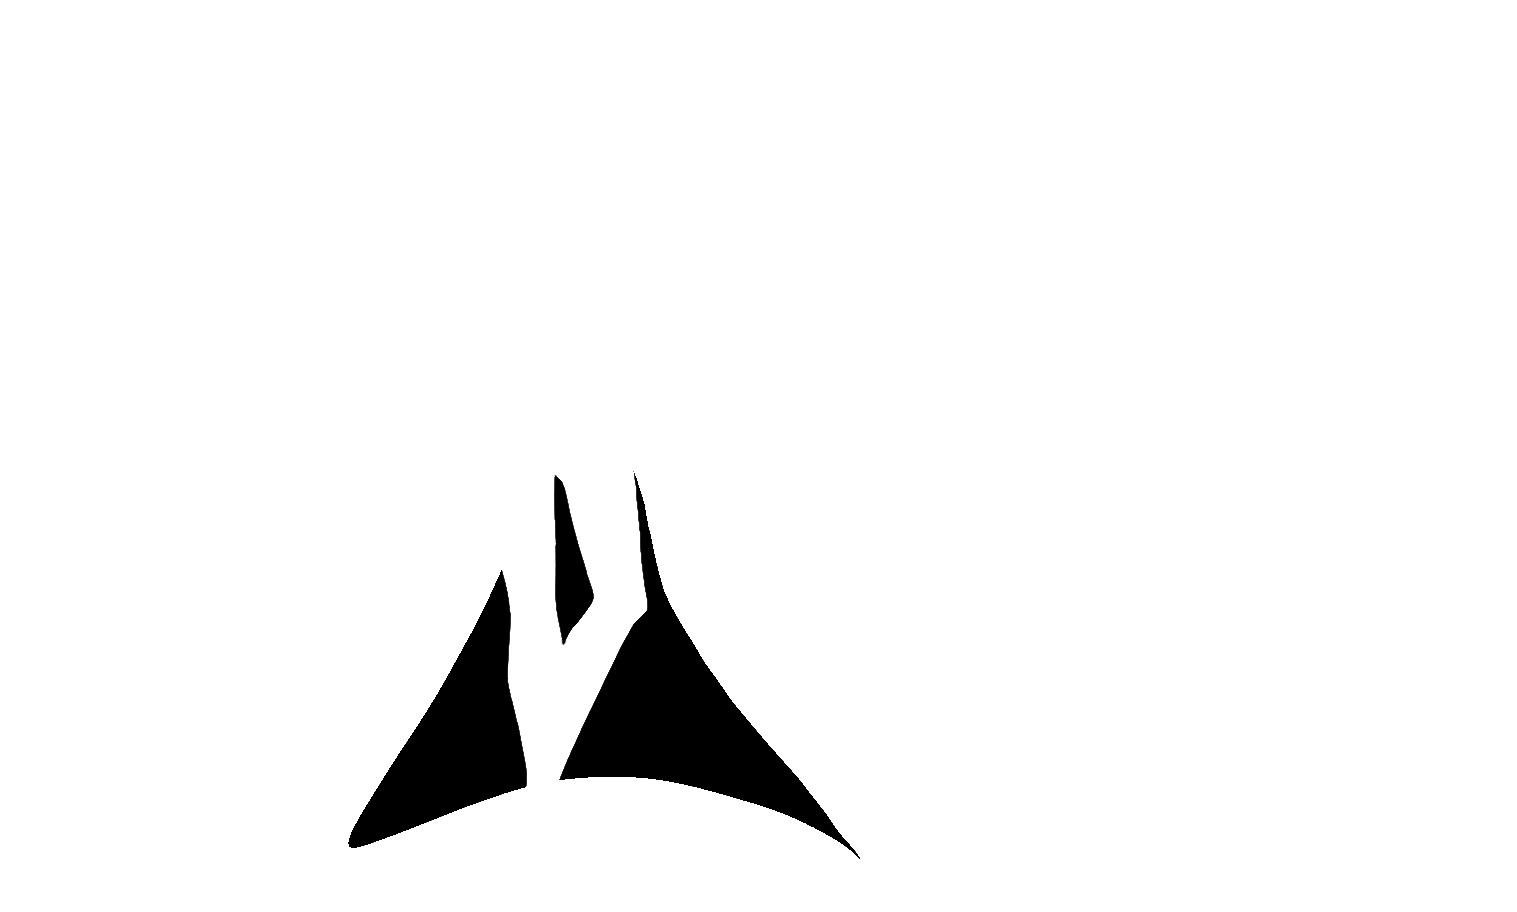
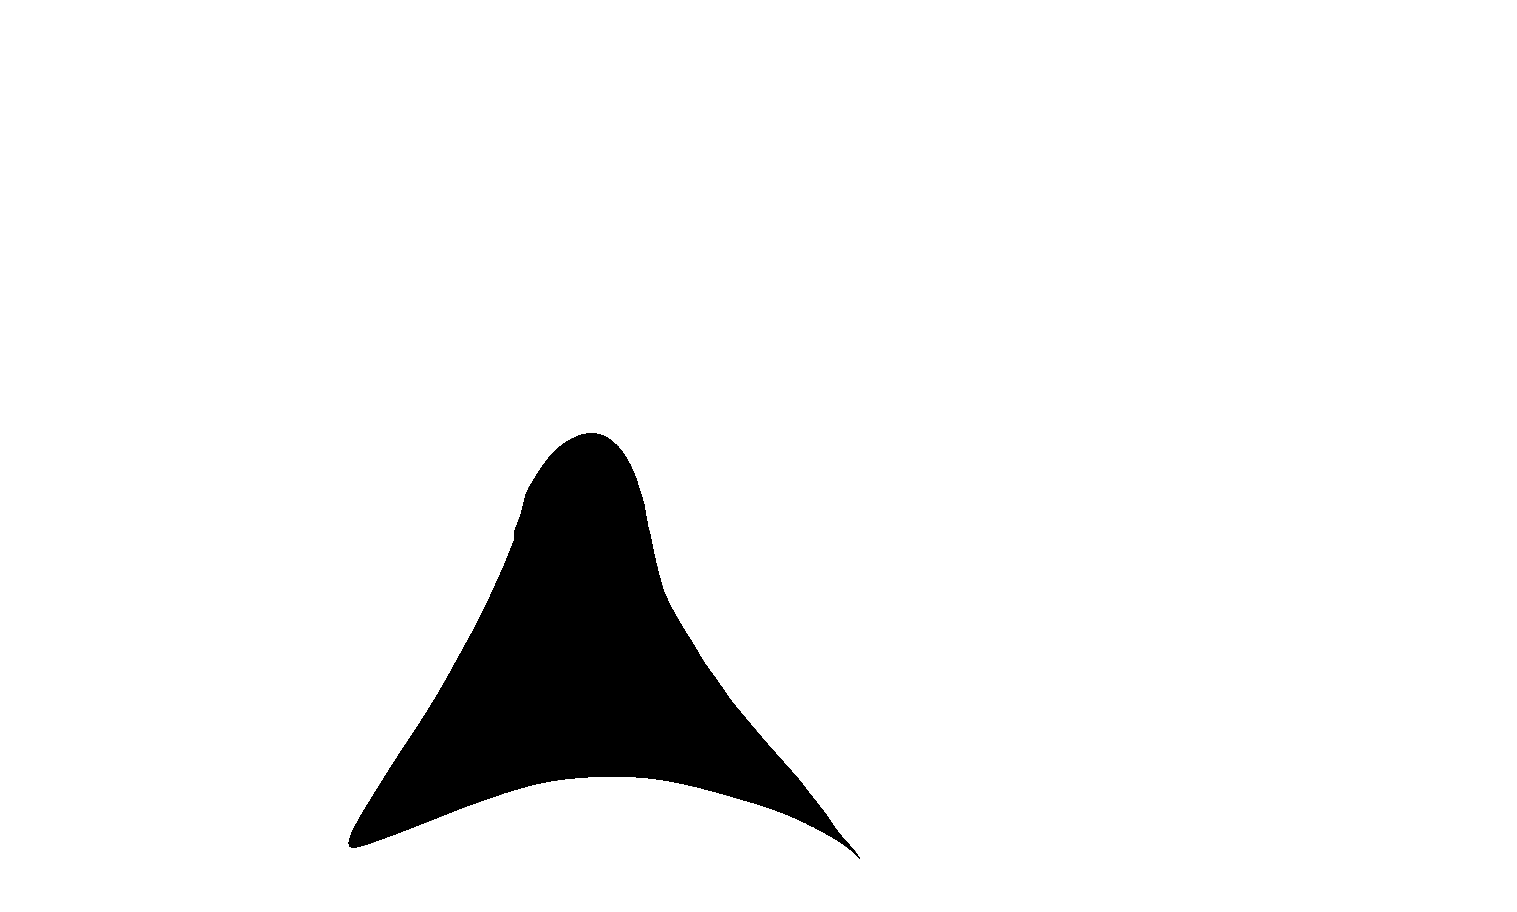
button shows both front and back img, Character Creator

Changed region(s): [[0.3098, 0.4605, 0.4338, 0.8596]]

diff --git a/src/DressUpGame/DressUpGame.tsx b/src/DressUpGame/DressUpGame.tsx
@@ -11,7 +11,7 @@ import {
     eyeUrls, fleshColor, hairBraids as hairBraidUrls, hairDown as hairDownUrls, hairEx as hairExUrls, hairUp as hairUpUrls,
     headHair as headHairUrls, lipColor, lipsUrls, noseUrls, pants, Shape, skirts, sleeves, socks, topCorset, topCorsetTies, tops
 } from './DUGColorAndImgLists';
-import { SelectedShape } from './ImgDisplay';
+import { Frame, SelectedShape } from './ImgDisplay';
 
 export interface Character {
     name: string
@@ -40,12 +40,14 @@ export interface Character {
     arms?: Shape
     armTies?: Shape
     sleeves?: Shape
+    bgSkirt?: Shape
+    eyeWhites?: Shape
 
 }
 
 type CharacterKey = keyof Character
 interface TrayRendering {
-    label: string, key: CharacterKey, itemUrls: Shape[], colors: string[], colors2?: string[]
+    label: string, key: CharacterKey, itemUrls: Shape[], colors: string[], colors2?: string[], bgKey?: CharacterKey
 }
 
 export interface DU1State {
@@ -106,17 +108,28 @@ export class DressUpGameTryingStuff extends React.Component<any, DU1State> {
     }
 
     renderSideBar(trayOptions: TrayRendering[]) {
-        return trayOptions.map(({ label, key, itemUrls, colors, colors2 }) =>
+        return trayOptions.map(({ label, key, itemUrls, colors, colors2, bgKey }) =>
             <ShapeButtonsWithColor
                 itemName={label}
                 itemUrls={itemUrls}
                 onShapeSelect={(shape: Shape) => {
                     console.log(shape);
-                    this.setState({ currentCharacter: { ...this.state.currentCharacter, [key]: shape } })
+                    let extraBgInfo = {}
+                    if ((shape.backFillUrl || shape.bgPermColorUrl) && bgKey) {
+                        extraBgInfo = {
+                            [bgKey]:
+                                {
+                                    color: shape.color,
+                                    outlineUrl: shape.bgPermColorUrl,
+                                    fillUrl: shape.backFillUrl,
+                                } as Shape
+                        }
+                    }
+                    this.setState({ currentCharacter: { ...this.state.currentCharacter, [key]: shape, ...extraBgInfo } })
                 }}
                 selectableColors={colors}
                 secondSelectableColors={colors2}
-                defaultShape={this.state.currentCharacter[key] as Shape}
+                selectedShape={this.state.currentCharacter[key] as Shape}
             />
         )
     }
@@ -145,7 +158,7 @@ export class DressUpGameTryingStuff extends React.Component<any, DU1State> {
             [
                 { label: "Character", key: "character", itemUrls: characterUrls, colors: fleshColor } as TrayRendering,
                 { label: "Brows", key: "brow", itemUrls: browUrls, colors: bigColorOption } as TrayRendering,
-                { label: "Eyes", key: "eye", itemUrls: eyeUrls, colors: bigColorOption, colors2: bigColorOption } as TrayRendering,
+                { label: "Eyes", key: "eye", bgKey: "eyeWhites", itemUrls: eyeUrls, colors: bigColorOption, colors2: bigColorOption } as TrayRendering,
                 { label: "Nose", key: "nose", itemUrls: noseUrls, colors: [] } as TrayRendering,
                 { label: "Lips", key: "lips", itemUrls: lipsUrls, colors: lipColor } as TrayRendering,
             ],
@@ -172,7 +185,7 @@ export class DressUpGameTryingStuff extends React.Component<any, DU1State> {
             { label: "Socks", key: "socks", itemUrls: socks, colors: bigColorOption } as TrayRendering,
             { label: "Belts", key: "belts", itemUrls: belts, colors: bigColorOption, colors2: bigColorOption } as TrayRendering,
             { label: "Belt Skirts", key: "beltSkirts", itemUrls: beltSkirts, colors: bigColorOption, colors2: bigColorOption } as TrayRendering,
-            { label: "Skirts", key: "skirts", itemUrls: skirts, colors: bigColorOption, colors2: bigColorOption } as TrayRendering,
+            { label: "Skirts", key: "skirts", bgKey: "bgSkirt", itemUrls: skirts, colors: bigColorOption, colors2: bigColorOption } as TrayRendering,
         ],
         "Arms": [
             { label: "Arms", key: "arms", itemUrls: arms, colors: bigColorOption, colors2: bigColorOption } as TrayRendering,
@@ -184,10 +197,12 @@ export class DressUpGameTryingStuff extends React.Component<any, DU1State> {
     previewPaneDisplayOrder: CharacterKey[] = [
         "hairDown",
         "hairUp",
+        "bgSkirt",
         "character",
         "lips",
         "nose",
         "brow",
+        "eyeWhites",
         "eye",
         "headHair",
         "hairBraids",
@@ -217,8 +232,12 @@ export class DressUpGameTryingStuff extends React.Component<any, DU1State> {
                     {/* ART */}
                     <div >
                         {this.previewPaneDisplayOrder
-                            .map((key) =>
-                                this.state.currentCharacter[key] && <SelectedShape shape={this.state.currentCharacter[key] as Shape} />
+                            .map((key) => {
+                                if (this.state.currentCharacter[key]) {
+                                    console.log("rendering: ", key, this.state.currentCharacter[key]);
+                                    return (<SelectedShape frame={this.state.currentCharacter[key] as Frame} />)
+                                }
+                            }
                             )}
 
                     </div>

diff --git a/src/DressUpGame/ShapeButtonsWithColor.tsx b/src/DressUpGame/ShapeButtonsWithColor.tsx
@@ -12,22 +12,11 @@ interface ShapeButtonProps {
     selectableColors: string[],
     secondSelectableColors?: string[],
 
-    defaultShape?: Shape
+    selectedShape?: Shape
 }
-interface ShapeButtonState {
-    selectedShapeUrl: ShapeUrl | undefined
-    selectedShapeColor: string
-    selectedSecondShapeColor: string
-}
-export class ShapeButtonsWithColor extends React.Component<ShapeButtonProps, ShapeButtonState>{
-    constructor(props: any) {
-        super(props);
-        this.state = {
-            selectedShapeUrl: this.props.defaultShape || undefined,
-            selectedShapeColor: this.props.defaultShape?.color || "",
-            selectedSecondShapeColor: this.props.defaultShape?.color2 || ""
-        }
-    }
+
+export class ShapeButtonsWithColor extends React.Component<ShapeButtonProps, any>{
+
     render(): React.ReactNode {
         return (
             <>
@@ -39,31 +28,26 @@ export class ShapeButtonsWithColor extends React.Component<ShapeButtonProps, Sha
                                     src={shapeUrl.outlineUrl}
                                     className="clothesTrayImg"
                                     onClick={() => {
-                                        this.setState({ selectedShapeUrl: shapeUrl });
                                         this.props.onShapeSelect({
+                                            ...this.props.selectedShape,
                                             ...shapeUrl,
-                                            color: this.state.selectedShapeColor,
-                                            color2: this.state.selectedSecondShapeColor
                                         })
                                     }} />
                             )
                         })}
                         <div></div>
-
                     </>
                     {
                         this.props.selectableColors.length > 0 &&
                         <ColorButtons color={this.props.selectableColors} onClick={(color) => {
-                            this.setState({ selectedShapeColor: color });
-                            this.props.onShapeSelect({ ...this.state.selectedShapeUrl, color: color, color2: this.state.selectedSecondShapeColor })
+                            this.props.onShapeSelect({ ...this.props.selectedShape, color: color })
                         }} />
                     }
                     <div></div>
                     {
                         this.props.secondSelectableColors &&
                         <ColorButtons color={this.props.secondSelectableColors} onClick={(color) => {
-                            this.setState({ selectedSecondShapeColor: color });
-                            this.props.onShapeSelect({ ...this.state.selectedShapeUrl, color: this.state.selectedShapeColor, color2: color })
+                            this.props.onShapeSelect({ ...this.props.selectedShape, color2: color })
                         }} />
                     }
                 </ItemTray>

diff --git a/src/DressUpGame/ImgDisplay.tsx b/src/DressUpGame/ImgDisplay.tsx
@@ -1,21 +1,27 @@
 import React from 'react';
 import './DressUpGame.css'
 import './DressUpGameColors.css'
-import { Shape } from './DUGColorAndImgLists';
+//import { Shape } from './DUGColorAndImgLists';
 
-export class SelectedShape extends React.Component<{ shape: Shape }, {}> {
+export interface Frame {
+    outlineUrl?: string
+    extraLineUrl?: string
+    fillUrl?: string
+    secondFillUrl?: string
+    color?: string
+    color2?: string
+}
+
+export class SelectedShape extends React.Component<{ frame: Frame }, {}> {
 
     render(): React.ReactNode {
         return (
 
             <div>
-                <img src={this.props.shape.backFillUrl} className={this.props.shape.color + " body"} />
-                <img src={this.props.shape.bgPermColorUrl} className="body " />
-                <img src={this.props.shape.fillUrl} className={this.props.shape.color + " body"} />
-                <img src={this.props.shape.secondFillUrl} className={this.props.shape.color2 + " body"} />
-                <img src={this.props.shape.extraLineUrl} className="body " />
-                <img src={this.props.shape.outlineUrl} className="body " />
-
+                <img src={this.props.frame.fillUrl} className={this.props.frame.color + " body"} />
+                <img src={this.props.frame.secondFillUrl} className={this.props.frame.color2 + " body"} />
+                <img src={this.props.frame.extraLineUrl} className="body " />
+                <img src={this.props.frame.outlineUrl} className="body " />
             </div>
         )
     }

diff --git a/src/DressUpGame/DUGColorAndImgLists.tsx b/src/DressUpGame/DUGColorAndImgLists.tsx
@@ -9,6 +9,7 @@ export interface ShapeUrl {
     backFillUrl?: string
     bgPermColorUrl?: string
 }
+
 export interface Shape extends ShapeUrl {
     color?: string
     color2?: string
@@ -132,8 +133,9 @@ export let belts: Shape[] = [
         outlineUrl: './DUG/belt/beltOL6.png',
         fillUrl: './DUG/belt/beltC.png', secondFillUrl: './DUG/belt/beltC6.png',
     },
-    { outlineUrl: './DUG/blank.png', },
+    { outlineUrl: './DUG/blank.png', fillUrl: "" },
 ]
+
 export let skirts: Shape[] = [
     {
         outlineUrl: './DUG/skirt/skirtOL1.png', bgPermColorUrl: './DUG/skirt/skirtBOL1.png',
@@ -174,7 +176,7 @@ export let skirts: Shape[] = [
         fillUrl: './DUG/skirt/skirtC9.png', secondFillUrl: './DUG/skirt/skirtSC9.png',
         backFillUrl: './DUG/skirt/skirtBC9.png'
     },
-    { outlineUrl: './DUG/blank.png', },
+    { outlineUrl: './DUG/blank.png', fillUrl: "" },
 ]
 
 export let socks: Shape[] = [
